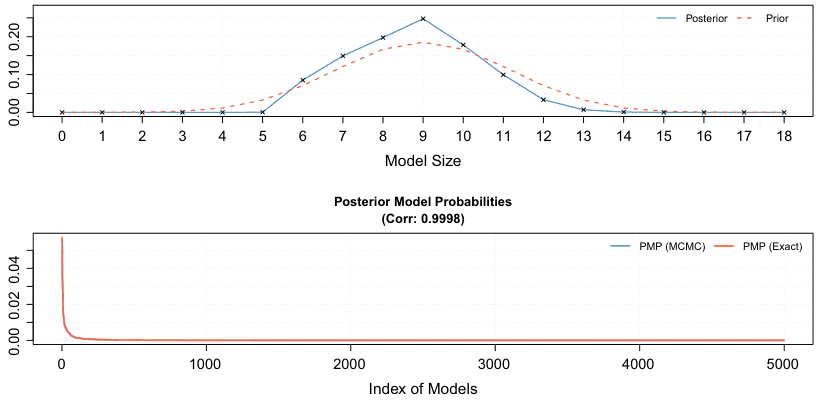
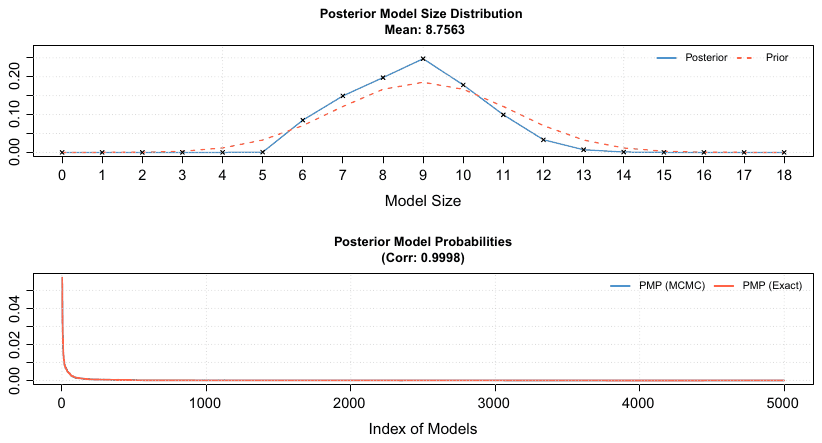
Recover figure edges lost to crops that stopped at the last dense ink
Nine figures across four papers, all the same fault: the crop box was placed
against the visible mass of the plot rather than against the artwork's real
extent, so anything sparse at the edge fell outside it.

tourist Figures 5 and 6 lost the right plot border, the closing "IV" tick label
and the last two monthly observations of every series -- the actual line and all
seven forecasts, for Nov and Dec 2016. migrant Figure 2 lost the ".1" tick and
the right-tail estimates beyond it, which is the tail its caption is about;
Figure 1 lost the ".2" label and the right border. education Figure A4 lost the
upper panel's title, "Posterior Model Size Distribution / Mean: 8.7563", leaving
an untitled plot stacked on a titled one and dropping a number the notes rely on.

frisch Figures 2, 3, 4, 5 and 7 had the opposite fault: the box started at the
top of the text block, so each image carried the running head and the paper's
own Notes paragraph. The notes are already in the transcript caption, so every
one of those pages printed its notes twice.

extract_figure.py now crops the transcript's source PDF rather than the hosted
one, and takes --pdf to override it. Four pages host one edition while their
text follows another; for tourist the two editions lay their figures out
differently, so a re-cut from the hosted file would have silently produced a
picture of something else.

diff --git a/migrant/paper/index.html b/migrant/paper/index.html
@@ -21,8 +21,8 @@
 <meta property="og:description" content="The full text of Klara Kantova, Tomas Havranek, Zuzana Irsova, Jiri Schwarz (2026), &quot;The Elasticity of Substitution between Native and Immigrant Labor: A Meta-Analysis.&quot; Charles University, Prague. Available at meta-analysis.cz/migrant" />
 <meta property="og:url" content="https://meta-analysis.cz/migrant/paper/" />
 <meta property="og:image" content="https://meta-analysis.cz/migrant/paper/figures/fig2.png" />
-<meta property="og:image:width" content="1040" />
-<meta property="og:image:height" content="647" />
+<meta property="og:image:width" content="1122" />
+<meta property="og:image:height" content="649" />
 <meta property="og:image:alt" content="The Elasticity of Substitution between Native and Immigrant Labor: A Meta-Analysis" />
 <script type="application/ld+json">
 {

diff --git a/tools/extract_figure.py b/tools/extract_figure.py
@@ -1,7 +1,8 @@
 #!/usr/bin/env python3
 """Lift one figure out of a paper's PDF and save it for the full-text page.
 
-    python3 tools/extract_figure.py <project> <fig> <page> <x0> <y0> <x1> <y1> [--dpi 200]
+    python3 tools/extract_figure.py <project> <fig> <page> <x0> <y0> <x1> <y1>
+                                    [--dpi 200] [--pdf <file>]
 
 The four coordinates are fractions of the page, measured from the top left, so they can be
 read off a rendered preview without knowing the page size: 0.08 0.55 0.95 0.90 means the
@@ -51,10 +52,17 @@ def trim(im, threshold=232, pad=8):
 def extract(project, fig, page, box, dpi=200, colours=64, pdf=None):
     import json
     sys.path.insert(0, os.path.join(ROOT, "tools"))
-    from build_paper_page import documents, page_dir, pdf_path
+    from build_paper_page import documents, page_dir, transcript_pdf_path
     papers = {p["project"]: p for p in json.load(open(os.path.join(ROOT, "tools", "papers.json"), encoding="utf-8"))}
     papers.update(documents())
-    pdf = pdf or pdf_path(project, papers[project])
+    # The TRANSCRIPT's source, not the hosted PDF. Four pages host one edition while their
+    # text follows another -- tourist and transmission host the published article and
+    # reproduce the working paper -- and the two editions lay their figures out differently
+    # and, for transmission, do not even contain the same ones. Cropping page 17 of the
+    # published tourist for a figure the page took from page 17 of the working paper yields
+    # a picture of something else, silently. This is the same trap transcript_pdf_path()
+    # exists for in the fidelity check and in scout_paper.py, and it is closed the same way.
+    pdf = pdf or transcript_pdf_path(project, papers[project])
 
     im = render(pdf, page, dpi)
     x0, y0, x1, y1 = box
@@ -72,11 +80,20 @@ def extract(project, fig, page, box, dpi=200, colours=64, pdf=None):
 
 
 if __name__ == "__main__":
-    args = [a for a in sys.argv[1:] if not a.startswith("--")]
-    dpi = 200
-    for a in sys.argv[1:]:
+    argv = sys.argv[1:]
+    dpi, pdf = 200, None
+    for i, a in enumerate(argv):
         if a.startswith("--dpi"):
-            dpi = int(a.split("=", 1)[1] if "=" in a else sys.argv[sys.argv.index(a) + 1])
+            dpi = int(a.split("=", 1)[1] if "=" in a else argv[i + 1])
+        elif a.startswith("--pdf"):
+            pdf = a.split("=", 1)[1] if "=" in a else argv[i + 1]
+    skip = set()
+    for i, a in enumerate(argv):
+        if a.startswith("--"):
+            skip.add(i)
+            if "=" not in a:
+                skip.add(i + 1)
+    args = [a for i, a in enumerate(argv) if i not in skip]
     project, fig, page = args[0], args[1], int(args[2])
     box = tuple(float(v) for v in args[3:7])
-    extract(project, fig, page, box, dpi=dpi)
+    extract(project, fig, page, box, dpi=dpi, pdf=pdf)
